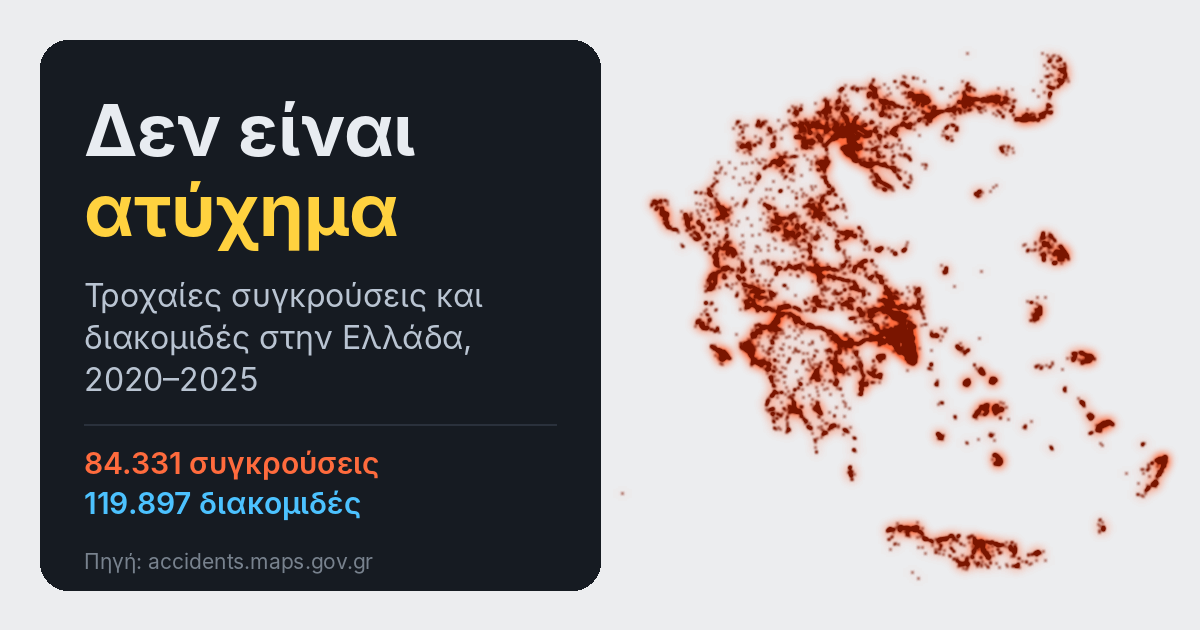
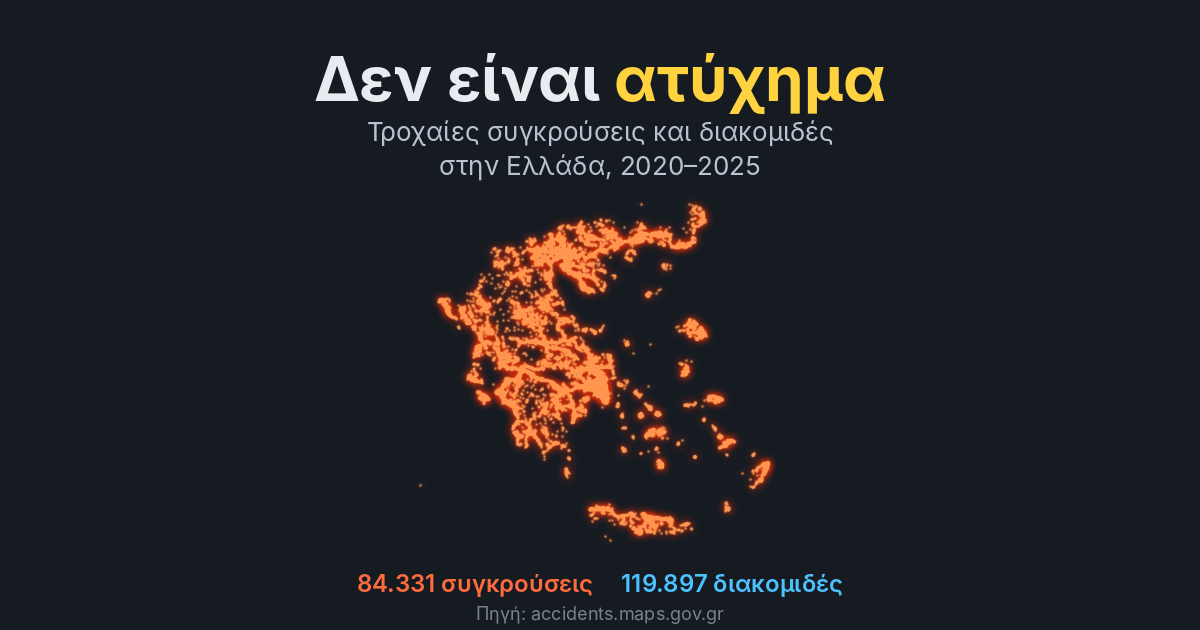
Centre the share card so cropped link previews keep all of it
Some apps crop link previews from the left and right. The card now
stacks title, subtitle, map and totals inside the central 630px, so
even a square crop shows everything. The map is drawn in bright orange
on the dark background.

Claude-Session: https://claude.ai/code/session_019fEwLyPi1Es2eciPmXZeF8

diff --git a/scripts/og.py b/scripts/og.py
@@ -7,7 +7,7 @@ BG = (236, 237, 239)
 x0, x1, y0, y1 = 19.3, 28.4, 34.7, 41.9
 k = math.cos(math.radians(38.3))
 
-def draw_map(img, box, blur=5, gain=9):
+def draw_map(img, box, blur=5, gain=9, glow_c=(255, 107, 61), core_c=(122, 21, 0)):
     W, H = img.size
     mw, mh = (x1 - x0) * k, (y1 - y0)
     s = min((box[2] - box[0]) / mw, (box[3] - box[1]) / mh)
@@ -19,27 +19,33 @@ def draw_map(img, box, blur=5, gain=9):
         hd.point((ox + (x / 1e5 - x0) * k * s, oy + (y1 - y / 1e5) * s), fill=255)
     glow = heat.filter(ImageFilter.GaussianBlur(blur)).point(lambda v: min(255, int(v * gain * 0.55)))
     core = heat.filter(ImageFilter.GaussianBlur(max(0.8, blur / 4))).point(lambda v: min(255, v * 5))
-    img.paste(Image.new('RGB', (W, H), (255, 107, 61)), (0, 0), glow)
-    img.paste(Image.new('RGB', (W, H), (122, 21, 0)), (0, 0), core)
+    img.paste(Image.new('RGB', (W, H), glow_c), (0, 0), glow)
+    img.paste(Image.new('RGB', (W, H), core_c), (0, 0), core)
 
-# share card 1200x630
+# share card 1200x630; everything sits in the central 600px so side-cropped previews keep it
 W, H = 1200, 630
-img = Image.new('RGB', (W, H), BG)
-draw_map(img, (630, 24, 1176, 606))
+DARK = (22, 27, 34)
+img = Image.new('RGB', (W, H), DARK)
+draw_map(img, (425, 196, 775, 548), blur=4, gain=10, glow_c=(190, 40, 10), core_c=(255, 150, 80))
 dr = ImageDraw.Draw(img)
-dr.rounded_rectangle((40, 40, 600, 590), radius=28, fill=(22, 27, 34))
-title = ImageFont.truetype(F + 'Inter-Bold.otf', 72)
-sub = ImageFont.truetype(F + 'Inter-Regular.otf', 32)
-stat = ImageFont.truetype(F + 'Inter-SemiBold.otf', 30)
-small = ImageFont.truetype(F + 'Inter-Regular.otf', 21)
-dr.text((84, 86), 'Δεν είναι', font=title, fill=(232, 236, 241))
-dr.text((84, 166), 'ατύχημα', font=title, fill=(255, 210, 63))
-for i, line in enumerate(['Τροχαίες συγκρούσεις και', 'διακομιδές στην Ελλάδα,', '2020–2025']):
-    dr.text((84, 276 + 42 * i), line, font=sub, fill=(185, 196, 210))
-dr.line((84, 424, 556, 424), fill=(42, 49, 60), width=2)
-dr.text((84, 444), '84.331 συγκρούσεις', font=stat, fill=(255, 107, 61))
-dr.text((84, 484), '119.897 διακομιδές', font=stat, fill=(76, 194, 255))
-dr.text((84, 548), 'Πηγή: accidents.maps.gov.gr', font=small, fill=(120, 130, 142))
+title = ImageFont.truetype(F + 'Inter-Bold.otf', 62)
+sub = ImageFont.truetype(F + 'Inter-Regular.otf', 26)
+stat = ImageFont.truetype(F + 'Inter-SemiBold.otf', 24)
+small = ImageFont.truetype(F + 'Inter-Regular.otf', 18)
+cx = W // 2
+tw1 = dr.textlength('Δεν είναι ', font=title); tw2 = dr.textlength('ατύχημα', font=title)
+x = cx - (tw1 + tw2) / 2
+dr.text((x, 40), 'Δεν είναι ', font=title, fill=(232, 236, 241))
+dr.text((x + tw1, 40), 'ατύχημα', font=title, fill=(255, 210, 63))
+dr.text((cx, 120), 'Τροχαίες συγκρούσεις και διακομιδές', font=sub, fill=(185, 196, 210), anchor='mt')
+dr.text((cx, 154), 'στην Ελλάδα, 2020–2025', font=sub, fill=(185, 196, 210), anchor='mt')
+a, b = '84.331 συγκρούσεις', '119.897 διακομιδές'
+gap = 28
+wa, wb = dr.textlength(a, font=stat), dr.textlength(b, font=stat)
+x = cx - (wa + gap + wb) / 2
+dr.text((x, 568), a, font=stat, fill=(255, 107, 61))
+dr.text((x + wa + gap, 568), b, font=stat, fill=(76, 194, 255))
+dr.text((cx, 606), 'Πηγή: accidents.maps.gov.gr', font=small, fill=(120, 130, 142), anchor='mt')
 img.save(f'{repo}/og.png', optimize=True)
 
 # square icon: map only
